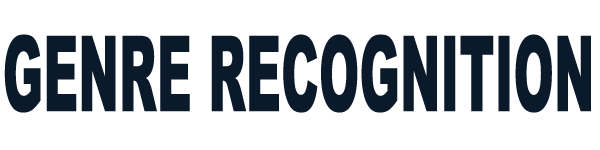
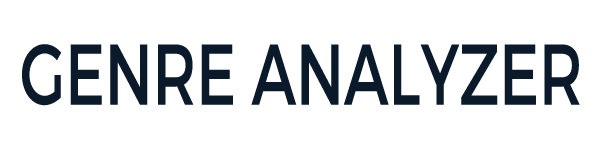
UI

diff --git a/static/index.html b/static/index.html
@@ -2,7 +2,7 @@
 <html>
 <head>
     <meta http-equiv="Content-Type" content="text/html; charset=UTF-8">
-    <title>Genre Recognition</title>
+    <title>Genre Analyzer</title>
     <script src="https://code.jquery.com/jquery-2.2.2.min.js"></script>
     <script src="https://cdn.jsdelivr.net/npm/@tensorflow/tfjs@0.12.0"></script>
     <script src="js/genres.js"></script>
@@ -16,11 +16,11 @@
     <link rel="stylesheet" type="text/css" href="css/styles.css">
 </head>
 <body>
-    <img src="img/deepsound.png" alt="Genre recognition" id="logo" class="logo-big">
+    <img src="img/deepsound.png" alt="Genre Analyzer" id="logo" class="logo-big">
     <div id="container">
         <div id="message-upload" class="message">
             <!-- <p>This is a demo of music genre recognition using a convolutional neural network running inside your browser. To start, click the button below and upload a song. A visualization will be shown, presenting the network's belief about the genre of the song at any given point in time.</p> -->
-            <p>This application recognizes a music based on its genre, from a total of 8 genres using Convolutional Neural Network. Upload a song using the button below.</p>
+            <p>This application analyses music based on its genre, from a total of 10 genres using Convolutional Neural Network. Upload a song!</p>
         </div>
         <div id="upload">
             <form enctype="multipart/form-data">
@@ -31,10 +31,10 @@
             </form>
         </div>
         <div id="message-wave" class="message">
-            <p>Processing</p>
+            <p>Processing...</p>
         </div>
         <div id="wave" class="modal"></div>
-        <!-- <div id="pills"></div> -->
+        <div id="pills"></div>
         <div id="piechart-container">
             <canvas id="piechart" height="450" width="400"></canvas>
             <div id="legend">
